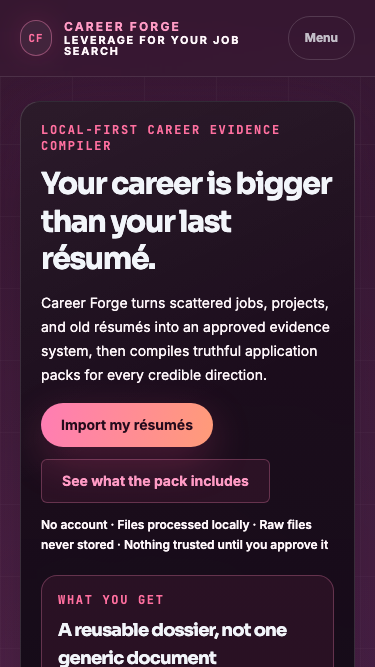
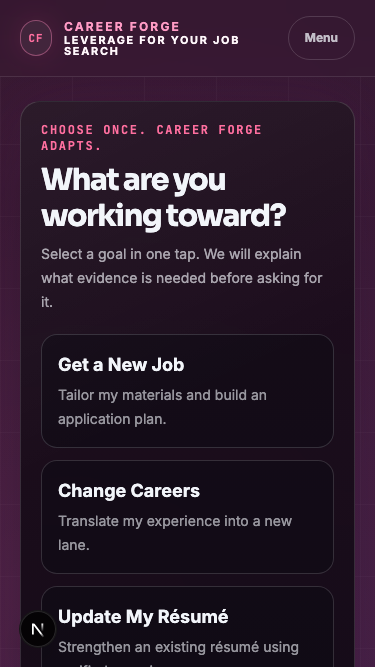
Add Career Forge intent router

Changed region(s): [[0.088, 0.1799, 0.9093, 1.0]]

diff --git a/src/lib/intent-router.ts b/src/lib/intent-router.ts
@@ -1,0 +1,107 @@
+import { assessDossierReadiness } from "@/lib/dossier";
+import type { CareerGoalKind, CommandCenterState, NextBestAction } from "@/types/command-center";
+
+export type GoalOption = {
+  kind: CareerGoalKind;
+  label: string;
+  description: string;
+};
+
+export type RecentCareerItem = {
+  id: string;
+  label: string;
+  detail: string;
+  href: string;
+  timestamp: string;
+};
+
+export const CAREER_GOALS: GoalOption[] = [
+  { kind: "new-job", label: "Get a New Job", description: "Tailor my materials and build an application plan." },
+  { kind: "career-change", label: "Change Careers", description: "Translate my experience into a new lane." },
+  { kind: "update-resume", label: "Update My Résumé", description: "Strengthen an existing résumé using verified experience." },
+  { kind: "first-resume", label: "Build My First Résumé", description: "Create one role or project at a time." },
+  { kind: "practice-interview", label: "Practice Interview", description: "Prepare from a real role, résumé, or interview stage." }
+];
+
+export function hasCareerActivity(state: CommandCenterState): boolean {
+  return Boolean(
+    state.dossier.evidence.length || state.pendingImportReviews.length || state.lanes.length ||
+    state.resumePacks.length || state.resumeVersions.length || state.applications.length || state.outreach.length
+  );
+}
+
+export function isIntentFirstRun(state: CommandCenterState): boolean {
+  return !state.activeGoal && !hasCareerActivity(state);
+}
+
+export function inferCareerGoal(state: CommandCenterState): CareerGoalKind {
+  if (state.activeGoal) return state.activeGoal.kind;
+  if (state.applications.some((application) => application.status === "interviewing")) return "practice-interview";
+  if (state.applications.length || state.resumePacks.length || state.lanes.length) return "new-job";
+  if (state.resumeVersions.length) return "update-resume";
+  return "new-job";
+}
+
+export function careerGoalLabel(state: CommandCenterState, kind = inferCareerGoal(state)): string {
+  const interviewing = [...state.applications].filter((application) => application.status === "interviewing").sort((a, b) => b.createdAt.localeCompare(a.createdAt))[0];
+  const activeLane = state.lanes.find((lane) => lane.status === "active") ?? state.lanes[0];
+  if (kind === "practice-interview") return interviewing ? `${interviewing.roleTitle} Interview` : "Interview Practice";
+  if (kind === "career-change") return activeLane ? `${activeLane.title} Career Change` : "Career Change";
+  if (kind === "update-resume") return activeLane ? `${activeLane.title} Résumé Update` : "Résumé Update";
+  if (kind === "first-resume") return "First Résumé";
+  return activeLane ? `${activeLane.title} Job Search` : "New Job Search";
+}
+
+function evidenceEntry(state: CommandCenterState, kind: CareerGoalKind): NextBestAction {
+  if (kind === "first-resume") return { title: "Add one real role or project", detail: "Start with the most recent work you can explain. Everything else stays optional.", href: "/profile#manual-history", actionLabel: "Add recent experience" };
+  return { title: "Bring in the career history you already have", detail: "Career Forge will explain and group what it finds before anything becomes trusted evidence.", href: "/profile#import", actionLabel: "Import career history" };
+}
+
+export function goalEntryAction(state: CommandCenterState, kind: CareerGoalKind): NextBestAction {
+  if (kind === "practice-interview") {
+    return { title: "Choose the interview you want to practice", detail: "Prepare from a real role, saved application, or interview stage.", href: "/interview", actionLabel: "Open interview practice" };
+  }
+  if (state.pendingImportReviews.length) return { title: "Finish reviewing imported evidence", detail: "Pending facts cannot support a résumé, lane, or application until you approve and save them.", href: "/profile#review", actionLabel: "Resume evidence review" };
+  if (assessDossierReadiness(state.dossier).level === "not-ready") return evidenceEntry(state, kind);
+  if (kind === "career-change") return { title: "Choose the lane you are moving toward", detail: "Compare the new direction against approved direct and transferable evidence.", href: "/targets", actionLabel: "Choose a transition lane" };
+  if (kind === "update-resume" && state.resumePacks.length) return { title: "Open your latest résumé pack", detail: "Review the current baselines and their defensibility receipts before changing the document.", href: "/versions", actionLabel: "Update résumé" };
+  if (kind === "first-resume" && state.resumePacks.length) return { title: "Continue your first résumé", detail: "Open the generated baseline and review every claim before export.", href: "/versions", actionLabel: "Continue résumé" };
+  if (!state.lanes.some((lane) => lane.status === "active")) return { title: "Choose one credible role lane", detail: "Your approved evidence determines which direction can support a truthful baseline.", href: "/targets", actionLabel: "Choose a role lane" };
+  if (!state.resumePacks.length) return { title: "Compile your first role-lane pack", detail: "Generate the ATS and recruiter baselines from approved evidence.", href: "/targets", actionLabel: "Generate résumé pack" };
+  if (kind === "update-resume" || kind === "first-resume") return { title: "Review your latest résumé pack", detail: "Inspect the defensibility receipt and update only what your evidence supports.", href: "/versions", actionLabel: "Open résumé pack" };
+  return { title: "Tailor the right baseline to a real posting", detail: "The posting defines the requirements; Career Forge checks them against approved evidence.", href: "/tailor", actionLabel: "Tailor to a job" };
+}
+
+export function intentNextMove(state: CommandCenterState, kind = inferCareerGoal(state)): NextBestAction {
+  if (state.pendingImportReviews.length || assessDossierReadiness(state.dossier).level === "not-ready") return goalEntryAction(state, kind);
+  const interviewing = state.applications.find((application) => application.status === "interviewing");
+  if (interviewing) return { title: `Prepare for ${interviewing.roleTitle} at ${interviewing.company}`, detail: "Practice the real role requirements, transferable evidence, and known gaps.", href: "/interview", actionLabel: "Practice interview" };
+  const followUp = state.applications.find((application) => application.nextFollowUpAt && new Date(application.nextFollowUpAt).getTime() <= Date.now());
+  if (followUp) return { title: `Follow up on ${followUp.company || followUp.roleTitle}`, detail: "This application has reached its scheduled follow-up date.", href: "/applications", actionLabel: "Log follow-up" };
+  const draft = state.applications.find((application) => application.status === "drafting");
+  if (draft) return { title: `Continue ${draft.roleTitle} at ${draft.company}`, detail: "Finish the evidence-backed application already in progress.", href: "/applications", actionLabel: "Continue application" };
+  return goalEntryAction(state, kind);
+}
+
+export function recentCareerItems(state: CommandCenterState, limit = 3): RecentCareerItem[] {
+  const items: RecentCareerItem[] = [
+    ...state.pendingImportReviews.map((batch) => ({ id: batch.id, label: "Pending evidence review", detail: `${batch.proposals.length} facts still in the Truth Inbox`, href: "/profile#review", timestamp: batch.updatedAt })),
+    ...state.applications.map((application) => ({ id: application.id, label: [application.roleTitle, application.company].filter(Boolean).join(" · ") || "Saved application", detail: `${application.status} application`, href: "/applications", timestamp: application.createdAt })),
+    ...state.resumePacks.map((pack) => ({ id: pack.id, label: "Résumé pack", detail: `${pack.variants.length} baselines · ${pack.status.replace("-", " ")}`, href: "/versions", timestamp: pack.updatedAt })),
+    ...state.resumeVersions.map((version) => ({ id: version.id, label: version.label || "Résumé version", detail: version.source === "tailor" ? "Job-specific résumé" : "Guided résumé", href: "/versions", timestamp: version.createdAt }))
+  ];
+  return items.sort((a, b) => b.timestamp.localeCompare(a.timestamp)).slice(0, limit);
+}
+
+export function intentMilestones(state: CommandCenterState): Array<{ label: string; complete: boolean }> {
+  const approved = state.dossier.evidence.some((item) => item.approved && !item.rejected);
+  return [
+    { label: "Goal selected", complete: Boolean(state.activeGoal) },
+    { label: "Evidence collected", complete: state.dossier.evidence.length > 0 || state.pendingImportReviews.length > 0 },
+    { label: "Evidence approved", complete: approved },
+    { label: "Target analyzed", complete: state.applications.some((application) => application.analysisKeywords.length > 0 || application.analysisGaps.length > 0) },
+    { label: "Artifact generated", complete: state.resumePacks.length > 0 || state.resumeVersions.length > 0 },
+    { label: "Application saved", complete: state.applications.length > 0 },
+    { label: "Follow-up scheduled", complete: state.applications.some((application) => Boolean(application.nextFollowUpAt)) }
+  ];
+}

diff --git a/src/components/IntentRouter.tsx b/src/components/IntentRouter.tsx
@@ -1,0 +1,89 @@
+"use client";
+
+import Link from "next/link";
+import { useRouter } from "next/navigation";
+import { trackCareerEvent } from "@/lib/analytics";
+import {
+  CAREER_GOALS,
+  careerGoalLabel,
+  goalEntryAction,
+  inferCareerGoal,
+  intentMilestones,
+  intentNextMove,
+  isIntentFirstRun,
+  recentCareerItems
+} from "@/lib/intent-router";
+import { useCommandCenter } from "@/lib/use-command-center";
+import type { CareerGoalKind } from "@/types/command-center";
+
+export function IntentRouter() {
+  const { state, update, hydrated } = useCommandCenter();
+  const router = useRouter();
+  if (!hydrated) return <section className="mx-auto min-h-52 max-w-6xl px-5 pt-6 sm:px-8 sm:pt-10" aria-label="Loading career goal" />;
+
+  const firstRun = isIntentFirstRun(state);
+  const goal = inferCareerGoal(state);
+  const nextMove = intentNextMove(state, goal);
+  const recent = recentCareerItems(state);
+  const milestones = intentMilestones(state);
+
+  function selectGoal(kind: CareerGoalKind) {
+    const now = new Date().toISOString();
+    const selectedAt = state.activeGoal?.kind === kind ? state.activeGoal.selectedAt : now;
+    const nextState = { ...state, activeGoal: { kind, selectedAt, updatedAt: now } };
+    update(() => nextState);
+    trackCareerEvent("intent_goal_selected");
+    router.push(goalEntryAction(nextState, kind).href);
+  }
+
+  if (firstRun) {
+    return (
+      <section className="mx-auto max-w-6xl px-5 pt-6 sm:px-8 sm:pt-10" id="intent-router" aria-labelledby="intent-title">
+        <div className="trust-panel p-5 sm:p-7">
+          <p className="trust-kicker text-xs font-bold uppercase">Choose once. Career Forge adapts.</p>
+          <h1 id="intent-title" className="mt-2 text-3xl font-bold text-paper sm:text-4xl">What are you working toward?</h1>
+          <p className="mt-2 max-w-2xl text-sm leading-6 text-paper/65">Select a goal in one tap. We will explain what evidence is needed before asking for it.</p>
+          <div className="mt-5 grid gap-3 md:grid-cols-2">
+            {CAREER_GOALS.map((option) => (
+              <button key={option.kind} type="button" onClick={() => selectGoal(option.kind)} className="rounded-xl border border-white/15 bg-obsidian/35 p-4 text-left transition hover:border-cyan/60 hover:bg-cyan/10 focus-visible:border-gold">
+                <span className="block text-lg font-black text-paper">{option.label}</span>
+                <span className="mt-1 block text-sm leading-6 text-paper/60">{option.description}</span>
+              </button>
+            ))}
+          </div>
+        </div>
+      </section>
+    );
+  }
+
+  return (
+    <section className="mx-auto max-w-6xl px-5 pt-6 sm:px-8 sm:pt-10" id="intent-router" aria-labelledby="intent-title">
+      <div className="trust-panel p-5 sm:p-7">
+        <p className="trust-kicker text-xs font-bold uppercase">Continue: {careerGoalLabel(state, goal)}</p>
+        <div className="mt-3 grid gap-6 lg:grid-cols-[1.3fr_0.7fr]">
+          <div>
+            <p className="text-xs font-bold uppercase tracking-wide text-gold">Your next move</p>
+            <h1 id="intent-title" className="mt-2 text-3xl font-bold text-paper">{nextMove.title}</h1>
+            <p className="mt-2 max-w-2xl text-sm leading-6 text-paper/65">{nextMove.detail}</p>
+            <Link href={nextMove.href} onClick={() => trackCareerEvent("intent_goal_resumed")} className="lab-pill-button mt-5 inline-flex min-h-11 items-center px-5 py-2.5 text-sm font-black">
+              {nextMove.actionLabel} →
+            </Link>
+          </div>
+          <div className="rounded-xl border border-white/12 bg-obsidian/30 p-4">
+            <p className="text-xs font-bold uppercase tracking-wide text-paper/50">Verified workflow milestones</p>
+            <ul className="mt-3 grid gap-2">
+              {milestones.map((milestone) => <li key={milestone.label} className="text-sm text-paper/70"><span className={milestone.complete ? "text-mint" : "text-paper/35"}>{milestone.complete ? "✓" : "○"}</span> {milestone.label}</li>)}
+            </ul>
+          </div>
+        </div>
+
+        {recent.length > 0 && <div className="mt-6 border-t border-white/10 pt-5"><h2 className="text-sm font-bold text-paper">Recent</h2><ul className="mt-3 grid gap-2 md:grid-cols-3">{recent.map((item) => <li key={`${item.id}-${item.href}`}><Link href={item.href} className="block rounded-lg border border-white/12 bg-white/5 p-3 transition hover:border-cyan/45"><span className="block text-sm font-bold text-paper">{item.label}</span><span className="mt-1 block text-xs text-paper/50">{item.detail}</span></Link></li>)}</ul></div>}
+
+        <details className="mt-6 border-t border-white/10 pt-4">
+          <summary className="cursor-pointer text-sm font-bold text-cyan">Other actions</summary>
+          <div className="mt-3 flex flex-wrap gap-2">{CAREER_GOALS.filter((option) => option.kind !== goal).map((option) => <button key={option.kind} type="button" onClick={() => selectGoal(option.kind)} className="rounded-md border border-white/15 px-3 py-2 text-sm font-bold text-paper/70 transition hover:border-gold hover:text-gold">{option.label}</button>)}</div>
+        </details>
+      </div>
+    </section>
+  );
+}

diff --git a/src/lib/command-center-store.ts b/src/lib/command-center-store.ts
@@ -1,5 +1,6 @@
 import type {
   ApplicationRecord,
+  ActiveCareerGoal,
   CareerProfile,
   CommandCenterState,
   OutreachContact,
@@ -37,7 +38,8 @@ export function emptyState(): CommandCenterState {
     resumeVersions: [],
     resumePacks: [],
     exports: [],
-    pendingImportReviews: []
+    pendingImportReviews: [],
+    activeGoal: null
   };
 }
 
@@ -158,6 +160,7 @@ function reviveLane(raw: Record<string, unknown>): TargetLane | null {
 }
 
 const applicationStatuses = ["drafting", "applied", "interviewing", "offer", "rejected", "closed"] as const;
+const careerGoalKinds = ["new-job", "career-change", "update-resume", "first-resume", "practice-interview"] as const;
 const outreachStatuses = ["planned", "sent", "replied", "meeting_booked", "dormant"] as const;
 const outreachChannels = ["linkedin", "email", "recruiter", "referral", "community", "other"] as const;
 
@@ -197,6 +200,18 @@ function reviveApplication(raw: Record<string, unknown>): ApplicationRecord | nu
     analysisGaps: asStringArray(raw.analysisGaps),
     analysisWeakSpots: asStringArray(raw.analysisWeakSpots),
     createdAt: asString(raw.createdAt, new Date(0).toISOString())
+  };
+}
+
+function reviveActiveGoal(raw: unknown): ActiveCareerGoal | null {
+  if (!raw || typeof raw !== "object" || Array.isArray(raw)) return null;
+  const source = raw as Record<string, unknown>;
+  if (!careerGoalKinds.includes(source.kind as (typeof careerGoalKinds)[number])) return null;
+  const selectedAt = asString(source.selectedAt, new Date(0).toISOString());
+  return {
+    kind: source.kind as ActiveCareerGoal["kind"],
+    selectedAt,
+    updatedAt: asString(source.updatedAt, selectedAt)
   };
 }
 
@@ -432,7 +447,8 @@ export function parseState(serialized: string | null): CommandCenterState {
       resumeVersions,
       resumePacks: reviveList(raw.resumePacks, reviveResumePack),
       exports: reviveList(raw.exports, reviveExport),
-      pendingImportReviews: reviveList(raw.pendingImportReviews, revivePendingImportReview)
+      pendingImportReviews: reviveList(raw.pendingImportReviews, revivePendingImportReview),
+      activeGoal: reviveActiveGoal(raw.activeGoal)
     };
   } catch {
     return emptyState();

diff --git a/src/app/page.tsx b/src/app/page.tsx
@@ -4,6 +4,7 @@ import Link from "next/link";
 import { useEffect, useMemo, useState } from "react";
 import { ActivationPath } from "@/components/ActivationPath";
 import { CommandNav } from "@/components/CommandNav";
+import { IntentRouter } from "@/components/IntentRouter";
 import { SampleExperience } from "@/components/SampleExperience";
 import { SiteFooter } from "@/components/SiteFooter";
 import { trackCareerEvent } from "@/lib/analytics";
@@ -17,7 +18,7 @@ import {
   outreachFollowUpsDue,
   WEEKLY_APPLICATION_TARGET
 } from "@/lib/command-center-insights";
-import { isProfileStarted } from "@/lib/command-center-store";
+import { isIntentFirstRun } from "@/lib/intent-router";
 import { useCommandCenter } from "@/lib/use-command-center";
 
 const loop = [
@@ -44,7 +45,7 @@ export default function Dashboard() {
     [state, nowIso]
   );
 
-  const isFirstRun = hydrated && !isProfileStarted(state.profile) && !state.lanes.length && !state.applications.length;
+  const isFirstRun = hydrated && isIntentFirstRun(state);
   const untailoredApplications = useMemo(() => applicationsMissingTailoredResume(state), [state]);
   const [lastBackupAt, setLastBackupAt] = useState<string | null>(null);
   const [backupChecked, setBackupChecked] = useState(false);
@@ -69,7 +70,9 @@ export default function Dashboard() {
   return (
     <main>
       <CommandNav active="/" />
+      <IntentRouter />
 
+      {(!hydrated || isFirstRun) && <>
       <section className="mx-auto max-w-6xl px-5 pt-6 sm:px-8 sm:pt-10" id="landing">
         <div className="trust-panel overflow-hidden">
           <div className="p-5 sm:p-7">
@@ -105,13 +108,15 @@ export default function Dashboard() {
         </div>
       </section>
 
-      {hydrated && (
+      </>}
+
+      {hydrated && !isFirstRun && (
         <section className="mx-auto max-w-6xl px-5 pt-8 sm:px-8">
           <ActivationPath state={state} compact={isFirstRun} />
         </section>
       )}
 
-      <section className="mx-auto max-w-6xl px-5 pt-8 sm:px-8" aria-labelledby="how-title">
+      {(!hydrated || isFirstRun) && <><section className="mx-auto max-w-6xl px-5 pt-8 sm:px-8" aria-labelledby="how-title">
         <div className="trust-panel p-5 sm:p-6">
           <p className="trust-kicker text-xs font-bold uppercase">How it works</p>
           <h2 id="how-title" className="mt-2 text-2xl font-bold text-paper">From scattered history to application-ready baselines</h2>
@@ -131,8 +136,9 @@ export default function Dashboard() {
       <section className="mx-auto max-w-6xl px-5 pt-8 sm:px-8" aria-labelledby="different-title" id="different">
         <div className="trust-panel p-5 sm:p-6"><p className="trust-kicker text-xs font-bold uppercase">The category difference</p><h2 id="different-title" className="mt-2 text-3xl font-bold text-paper">Not another AI résumé writer.</h2><p className="mt-2 max-w-3xl text-sm leading-6 text-paper/65">Writing is the output. Career Forge’s job is to compile approved proof, keep transfer claims honest, and show why every claim appeared.</p><div className="mt-5 overflow-x-auto"><table className="w-full min-w-[38rem] border-collapse text-left text-sm"><thead><tr className="border-b border-white/15 text-paper/45"><th className="px-3 py-3">Typical tool</th><th className="px-3 py-3 text-cyan">Career Forge</th></tr></thead><tbody>{[["Starts from one résumé", "Builds a longitudinal Career Dossier"], ["Generates plausible copy", "Uses evidence you explicitly approved"], ["Gives a match score", "Shows direct, transferred, and missing proof"], ["Makes one tailored document", "Builds an ATS and recruiter baseline for every credible lane"], ["Stores files in an account", "Works locally without an account"], ["Hides why a claim appeared", "Links each generated claim to its source"]].map(([typical, forge]) => <tr key={typical} className="border-b border-white/10"><td className="px-3 py-3 text-paper/55">{typical}</td><td className="px-3 py-3 font-bold text-paper">{forge}</td></tr>)}</tbody></table></div><div className="mt-5 flex flex-wrap gap-3"><Link href="/profile#import" onClick={() => trackCareerEvent("differentiation_section_cta_clicked")} className="lab-pill-button inline-flex min-h-11 items-center px-5 py-2.5 text-sm font-black">Build my approved dossier →</Link><Link href="/truth-map" onClick={() => trackCareerEvent("truth_map_opened")} className="inline-flex min-h-11 items-center rounded border border-cyan/40 px-5 py-2.5 text-sm font-bold text-cyan">See the Truth Map</Link></div></div>
       </section>
+      </>}
 
-      <section className="mx-auto max-w-6xl px-5 pt-8 sm:px-8" aria-labelledby="advanced-title">
+      {hydrated && !isFirstRun && <><section className="mx-auto max-w-6xl px-5 pt-8 sm:px-8" aria-labelledby="advanced-title">
         <div className="flex items-end justify-between gap-3"><div><p className="trust-kicker text-xs font-bold uppercase">Advanced workspace</p><h2 id="advanced-title" className="mt-2 text-xl font-bold text-paper">Your complete job-search system</h2></div>{hydrated && !isFirstRun && <Link href={nextAction.href} className="text-sm font-bold text-cyan">{nextAction.actionLabel} →</Link>}</div>
         <div className="mt-4 grid gap-3 md:grid-cols-3 lg:grid-cols-7">
           {loop.map(([num, label, detail, href]) => <Link key={num} href={href} className="group rounded-xl border border-white/12 bg-obsidian/40 p-4 transition hover:-translate-y-0.5 hover:border-cyan/50"><span className="lab-mono block text-xs font-bold text-gold">{num}</span><span className="mt-2 block text-sm font-bold text-paper group-hover:text-cyan">{label}</span><span className="mt-1 block text-[0.72rem] leading-5 text-paper/55">{detail}</span></Link>)}
@@ -150,6 +156,7 @@ export default function Dashboard() {
           ))}
         </div>
       </section>
+      </>}
 
       {hydrated && (followUps.applications.length > 0 || followUps.outreach.length > 0) && (
         <section className="mx-auto max-w-6xl px-5 pb-8 sm:px-8">

diff --git a/src/types/command-center.ts b/src/types/command-center.ts
@@ -3,6 +3,14 @@ import type { CareerDossier, ExportMetadata, PendingImportReview, ResumePack } f
 
 export type LaneStatus = "active" | "exploring" | "paused";
 
+export type CareerGoalKind = "new-job" | "career-change" | "update-resume" | "first-resume" | "practice-interview";
+
+export type ActiveCareerGoal = {
+  kind: CareerGoalKind;
+  selectedAt: string;
+  updatedAt: string;
+};
+
 export type ApplicationStatus =
   | "drafting"
   | "applied"
@@ -143,6 +151,7 @@ export type CommandCenterState = {
   resumePacks: ResumePack[];
   exports: ExportMetadata[];
   pendingImportReviews: PendingImportReview[];
+  activeGoal: ActiveCareerGoal | null;
 };
 
 export type NextBestAction = {

diff --git a/src/app/profile/page.tsx b/src/app/profile/page.tsx
@@ -415,7 +415,7 @@ export default function DossierPage() {
 
             {approvedEvidence.length > 0 && <section className="mt-6 grid gap-4 lg:grid-cols-[1fr_0.72fr]" id="unlocks"><div className="rounded-xl border border-mint/35 bg-mint/10 p-5"><p className="trust-kicker text-xs font-bold uppercase">What your approvals unlock</p><h2 className="mt-2 text-xl font-bold text-paper">{readiness.level === "not-ready" ? "A truthful foundation is taking shape" : readiness.level === "foundation" ? "You can begin testing credible role lanes" : "You have enough proof to forge lane résumés"}</h2><ul className="mt-3 grid gap-2 text-sm leading-6 text-paper/70"><li>• Roles and projects can become traced experience sections and bullets.</li><li>• Tools and skills can support matching only when the underlying work is approved.</li><li>• Missing credentials and unverified duration remain visible gaps—not generated claims.</li></ul><Link href="/targets" className="mt-4 inline-flex min-h-11 items-center rounded-md bg-mint px-4 py-2 text-sm font-black text-ink">See dossier-backed role lanes →</Link></div><ActivationFeedback milestone="dossier" question="Did the review make it clear what Career Forge now trusts?" /></section>}
 
-            <section className="mt-8 grid gap-6 lg:grid-cols-2">
+            <section className="mt-8 grid gap-6 lg:grid-cols-2" id="manual-history">
               <div className="trust-panel p-5">
                 <h2 className="text-xl font-bold text-paper">Identity &amp; professional links</h2>
                 <p className="mt-1 text-sm text-paper/55">Add once; it appears across every résumé.</p>

diff --git a/src/lib/analytics.ts b/src/lib/analytics.ts
@@ -40,6 +40,8 @@ export type CareerForgeEventName =
   | "claim_provenance_opened"
   | "defensibility_receipt_opened"
   | "differentiation_section_cta_clicked"
+  | "intent_goal_selected"
+  | "intent_goal_resumed"
   | "activation_feedback_submitted";
 
 function cleanProperties(properties?: AnalyticsProperties) {

diff --git a/docs/CAREER_FORGE_ACTIVATION_REPORT.md b/docs/CAREER_FORGE_ACTIVATION_REPORT.md
@@ -100,7 +100,7 @@ The named comparison, price snapshot, source ledger, category strategy, implemen
 
 ## Final validation
 
-- `npm test`: passed; 471 named regression checks, desktop/mobile usability regression, and 82-persona quality suite at 98/100 with 0 hallucinations.
+- `npm test`: passed; 489 named regression checks, desktop/mobile usability regression, and 82-persona quality suite at 98/100 with 0 hallucinations.
 - `npm run lint`: passed.
 - `npm run typecheck`: passed.
 - `npm run build`: passed; 17 static pages generated, including `/truth-map`.
@@ -113,6 +113,10 @@ The named comparison, price snapshot, source ledger, category strategy, implemen
 - `npm run acceptance:activation`: 22 activation regressions, 10 persona simulations, and the full six-viewport browser workflow passed.
 - `npm run acceptance:market-moat`: 66 market/moat regressions plus the extended six-viewport end-to-end browser workflow passed.
 - Production homepage script references total 769,678 uncompressed bytes in the local build snapshot; the regression confirms neither PDF.js nor Mammoth is eagerly imported on the homepage. Truth Map derivation remained below its 250ms budget for 500 evidence records, and the synthetic local/backup envelopes remained below 2MB.
+
+## Homepage intent router
+
+The homepage now uses five descriptive quick choices as a routing layer. A selection persists as the active goal, survives backup and restore, and changes the first workflow destination. First-résumé users start with one manual role or project; interview users enter practice; other goals receive an explanation before evidence import. Returning users see one dominant evidence-aware next move, up to three recent items, and milestone state transitions represented only as complete or incomplete—never a theatrical percentage. Legacy users with existing work receive an inferred continuation without silently writing a goal. This pass did not change evidence approval or truth-evaluation logic.
 
 ## Screenshots
 